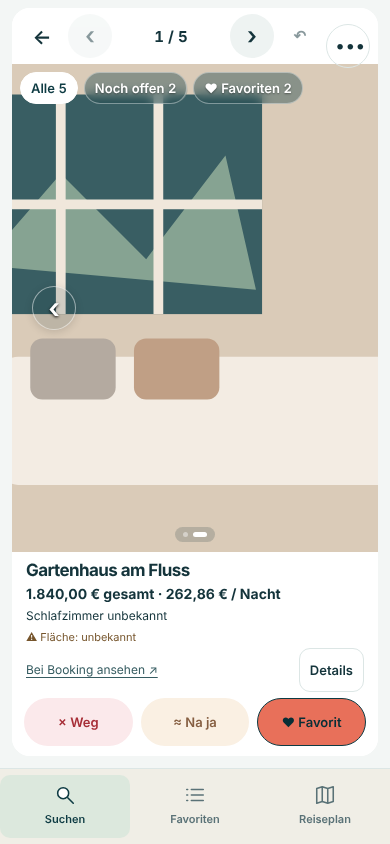
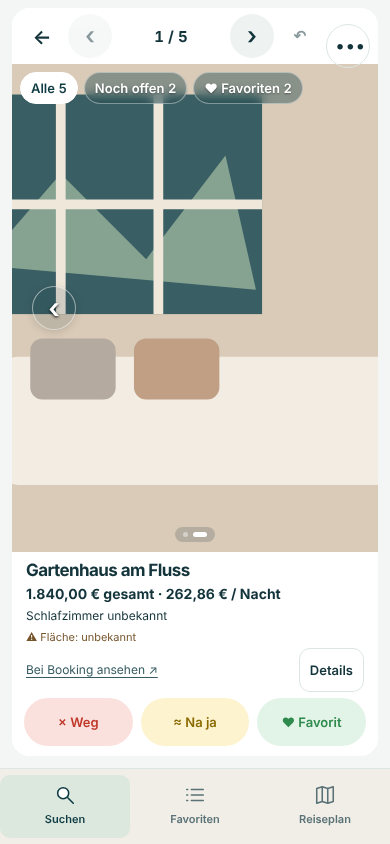
Urteilsfarben Grün/Gelb/Rot und Stempel auf dem Foto (v0.23.1)
- Favorit grün, Na ja gelb, Weg rot – Knöpfe, Markierungen und Listen-Auswahl
- Nach einem Urteil erscheint ein Stempel auf dem Foto, kurz danach geht es weiter
- Bewertete Unterkünfte zeigen den Stempel auch beim späteren Durchblättern

Claude-Session: https://claude.ai/code/session_01DDxrS7RkH2fv5D8K6VfxBU

Changed region(s): [[0.6462, 0.8009, 0.9538, 0.8934], [0.4615, 0.8318, 0.5538, 0.8626]]

diff --git a/stay-review.js b/stay-review.js
@@ -161,11 +161,12 @@ function stayReview({getSnapshot,getGroup=()=>null,getRows=()=>getSnapshot()?.tr
   const box=el('section',{class:'stay-review'}), message=el('p',{class:'review-message',role:'status'});
   const minus=[['preis','Preis'],['zu_klein','Zu klein'],['lage','Lage'],['stil','Stil'],['betten','Betten'],['fotos','Fotos'],['laerm','Lärm'],['ausstattung','Ausstattung'],['sonstiges','Sonstiges']];
   const plus=[['plus_groesse','Größe'],['plus_lage','Lage'],['plus_stil','Stil'],['plus_preis','Preis'],['plus_ausstattung','Ausstattung'],['plus_fotos','Fotos'],['plus_betten','Betten']];
-  let needsRefresh=false, activeGroup=null, restored=false, currentId=null, lastIndex=0, nextAfterVote=null, mode=stayRead('ks_review_mode','alle');
+  let needsRefresh=false, activeGroup=null, restored=false, stampFresh=null, holding=false, holdTimer=null, currentId=null, lastIndex=0, nextAfterVote=null, mode=stayRead('ks_review_mode','alle');
   if(!['alle','offen','favorit'].includes(mode))mode='alle';
   const positionKey=()=>'ks_review_pos:'+(getSnapshot()?.suchauftrag?.id??'etappe');
   function savePosition(){if(currentId)stayWrite(positionKey(),currentId);}
   const judged=t=>['favorit','vielleicht','ausgeschlossen'].includes(t.status);
+  const reduceMotion=()=>{try{return matchMedia('(prefers-reduced-motion: reduce)').matches;}catch{return false;}};
   const rank=(a,b)=>(b.runde||1)-(a.runde||1)||(a.bewertung?.rang??Infinity)-(b.bewertung?.rang??Infinity)||a.treffer_id-b.treffer_id;
   function currentList(keep=true){
     const all=getRows()||[], group=activeGroup;
@@ -174,24 +175,24 @@ function stayReview({getSnapshot,getGroup=()=>null,getRows=()=>getSnapshot()?.tr
     const list=mode==='offen'?base.filter(t=>!judged(t)||(t.status==='aktiv'&&t.urteil_uebernommen?.hinweis)||(keep&&t.treffer_id===currentId)):mode==='favorit'?base.filter(t=>t.status==='favorit'||(keep&&t.treffer_id===currentId)):base;
     return list.sort(rank);
   }
-  function go(delta){message.textContent='';const list=currentList();if(!list.length)return;let i=list.findIndex(t=>t.treffer_id===currentId);if(i<0)i=Math.min(lastIndex,list.length-1);i=Math.max(0,Math.min(list.length-1,i+delta));currentId=list[i].treffer_id;savePosition();draw();box.querySelector('.review-swipe h3')?.focus({preventScroll:true});}
+  function go(delta){if(holding){clearTimeout(holdTimer);holding=false;stampFresh=null;}message.textContent='';const list=currentList();if(!list.length)return;let i=list.findIndex(t=>t.treffer_id===currentId);if(i<0)i=Math.min(lastIndex,list.length-1);i=Math.max(0,Math.min(list.length-1,i+delta));currentId=list[i].treffer_id;savePosition();draw();box.querySelector('.review-swipe h3')?.focus({preventScroll:true});}
   function setMode(next){if(pending||mode===next)return;mode=next;stayWrite('ks_review_mode',mode);const list=currentList(false);if(!list.some(t=>t.treffer_id===currentId)){currentId=list[0]?.treffer_id??null;lastIndex=0;}draw();}
   const reviewed=new Set();
   async function vote(t,urteil,gruende=[],withReasons=true,restoring=false){
-    if(pending||needsRefresh||isBlocked())return;const focusDecision=document.activeElement?.dataset.decision;const previous={status:t.status||'aktiv',gruende:[...(t.urteil_gruende||[])],uebernommen:t.urteil_uebernommen};pending=true;revision++;draw();
+    if(pending||(holding&&!restoring)||needsRefresh||isBlocked())return;const focusDecision=document.activeElement?.dataset.decision;const previous={status:t.status||'aktiv',gruende:[...(t.urteil_gruende||[])],uebernommen:t.urteil_uebernommen};pending=true;revision++;draw();
     try {const r=await call('unterkunft_durchsehen_urteil',{treffer_id:t.treffer_id,urteil,gruende});if(!live())return;
       if(r.ok!==true || r.treffer_id!==t.treffer_id || r.urteil!==urteil || r.status!==({favorit:'favorit',vielleicht:'vielleicht',weg:'ausgeschlossen',offen:'aktiv'}[urteil]))throw Error('Urteil nicht eindeutig bestätigt.');
       t.status={favorit:'favorit',vielleicht:'vielleicht',weg:'ausgeschlossen',offen:'aktiv'}[urteil];t.urteil_gruende=gruende;
       if(restoring){reviewed.delete(t.treffer_id);t.urteil_uebernommen=previousRestore;last=null;reasonFor=null;}else if(urteil==='offen'){t.urteil_uebernommen=null;last=null;reasonFor=null;}else {if(withReasons){last={t,previous};if(activeGroup)reviewed.add(t.treffer_id);}reasonFor=withReasons?{t,urteil,gruende}:null;}
       if(reasonsDialog){reasonsDialog.close();reasonsDialog.remove();reasonsDialog=null;}
       awaitingReturn=null;message.textContent=restoring||urteil==='offen'?'Entscheidung zurückgenommen.':({favorit:'♥ Als Favorit gemerkt.',vielleicht:'≈ Als Na ja gemerkt.',weg:'× Aussortiert.'})[urteil];
-      if(!restoring&&urteil!=='offen'&&nextAfterVote){currentId=nextAfterVote;savePosition();}nextAfterVote=null;
+      if(!restoring&&urteil!=='offen'){stampFresh=t.treffer_id;const target=nextAfterVote;if(target){holding=true;clearTimeout(holdTimer);holdTimer=setTimeout(()=>{holding=false;stampFresh=null;if(!live())return;currentId=target;savePosition();draw();box.querySelector('.review-swipe h3')?.focus({preventScroll:true});},reduceMotion()?250:700);}}nextAfterVote=null;
     }catch(e){needsRefresh=true;if(reasonsDialog){reasonsDialog.close();reasonsDialog.remove();reasonsDialog=null;}message.textContent='Speichern nicht bestätigt: '+e.message+' Bitte aktualisieren, bevor du erneut entscheidest.';}
     finally{pending=false;revision++;if(live()){changed(t);draw();if(focusDecision)box.querySelector('.review-swipe h3')?.focus({preventScroll:true});}}
   }
   let previousRestore=null;
   function undoVote(){if(!last)return;const {t,previous}=last;currentId=t.treffer_id;savePosition();previousRestore=previous.uebernommen;void vote(t,({aktiv:'offen',favorit:'favorit',vielleicht:'vielleicht',ausgeschlossen:'weg'})[previous.status]||'offen',previous.gruende,false,true);}
-  function buttons(t){const current={favorit:'favorit',vielleicht:'vielleicht',ausgeschlossen:'weg'}[t.status]||null;return el('div',{class:'actions review-actions'},[['weg','Weg'],['vielleicht','Na ja'],['favorit','Favorit']].map(([key,label])=>el('button',{type:'button',class:'decision-'+key,'aria-label':current===key?label+' zurücknehmen':label,'aria-pressed':String(current===key),'data-decision':key,disabled:pending||needsRefresh||isBlocked(),onclick:()=>{const list=currentList();const i=list.findIndex(x=>x.treffer_id===t.treffer_id);nextAfterVote=current===key?null:(list[i+1]?.treffer_id??(mode==='offen'&&!activeGroup?list.find(x=>x.treffer_id!==t.treffer_id)?.treffer_id??-1:null));void vote(t,current===key?'offen':key);}},el('span',{'aria-hidden':'true'},({weg:'×',vielleicht:'≈',favorit:'♥'})[key]+' '),label)));}
+  function buttons(t){const current={favorit:'favorit',vielleicht:'vielleicht',ausgeschlossen:'weg'}[t.status]||null;return el('div',{class:'actions review-actions'},[['weg','Weg'],['vielleicht','Na ja'],['favorit','Favorit']].map(([key,label])=>el('button',{type:'button',class:'decision-'+key,'aria-label':current===key?label+' zurücknehmen':label,'aria-pressed':String(current===key),'data-decision':key,disabled:pending||holding||needsRefresh||isBlocked(),onclick:()=>{const list=currentList();const i=list.findIndex(x=>x.treffer_id===t.treffer_id);nextAfterVote=current===key?null:(list[i+1]?.treffer_id??(mode==='offen'&&!activeGroup?list.find(x=>x.treffer_id!==t.treffer_id)?.treffer_id??-1:null));void vote(t,current===key?'offen':key);}},el('span',{'aria-hidden':'true'},({weg:'×',vielleicht:'≈',favorit:'♥'})[key]+' '),label)));}
   function openReasons(){
     if(!reasonFor||pending||needsRefresh||isBlocked())return;
     const r=reasonFor, dialog=el('dialog',{class:'stay-candidate review-reasons','aria-label':'Gründe ergänzen'});
@@ -238,7 +239,7 @@ function stayReview({getSnapshot,getGroup=()=>null,getRows=()=>getSnapshot()?.tr
     const price=t.currentOfferUnavailable?el('span',{},'Preis nicht bestätigt'):el('span',{},stayField(t,'preis',snapshot.suchauftrag),' gesamt · ',stayField(t,'nacht',snapshot.suchauftrag),' / Nacht');
     const bedrooms=stayFieldValue(t,'schlafzimmer',snapshot.suchauftrag), m2=stayFieldValue(t,'m2',snapshot.suchauftrag), note=stayFieldValue(t,'gaestenote',snapshot.suchauftrag);
     const facts=[bedrooms===null?null:bedrooms+' Schlafzimmer',m2===null?null:m2+' m²',sucheZahl(note)===null?null:'★ '+Number(note).toLocaleString('de-DE',{maximumFractionDigits:1})].filter(Boolean);
-    const verdict={favorit:'♥ Favorit',vielleicht:'≈ Na ja',ausgeschlossen:'× Aussortiert'}[t.status];
+    const verdict={favorit:'♥ Favorit',vielleicht:'≈ Na ja',ausgeschlossen:'× Weg'}[t.status];
     const swipe=el('div',{class:'review-swipe'},el('div',{class:'review-title'},refreshIsNew(t,snapshot.suchauftrag.id)?el('span',{class:'pill'},'NEU'):null,verdict?el('span',{class:'review-verdict verdict-'+t.status},verdict):null,el('h3',{tabindex:-1},t.name)),el('p',{class:'review-price'},price),el('p',{class:'review-bedroom'},facts.length?facts.join(' · '):'Schlafzimmer unbekannt'));
     let point=null, swiped=false;
     swipe.addEventListener('pointerdown',e=>{if(point){point=null;return;}if(e.isPrimary===false || e.button!==0 || e.target.closest('button,a') || document.querySelector('dialog[open]'))return;point={id:e.pointerId,x:e.clientX,y:e.clientY};try{swipe.setPointerCapture?.(e.pointerId);}catch{/* Synthetic events may lack an active pointer. */}});
@@ -251,11 +252,11 @@ function stayReview({getSnapshot,getGroup=()=>null,getRows=()=>getSnapshot()?.tr
     content.append(swipe,el('div',{class:'review-links'},url?el('a',{href:url,target:'_blank',rel:'noopener noreferrer',onclick:()=>{awaitingReturn=t.treffer_id;}},provider.label):null,
       el('button',{type:'button',onclick:event=>{const trigger=event.currentTarget,dialog=sucheKandidat(t,snapshot.suchauftrag.status==='fertig',snapshot.suchauftrag.id);dialog.append(el('p',{class:'review-score'},`Passung ${t.bewertung?.score??'–'}/100`),stayReviewInfo(t,snapshot.suchauftrag),el('section',{'aria-label':'Offene Angaben'},warnings.map(w=>el('p',{},w))));scope.append(dialog);dialog.addEventListener('close',()=>{dialog.remove();if(trigger.isConnected)trigger.focus({preventScroll:true});});dialog.showModal();}},'Details')));
     if(awaitingReturn===t.treffer_id)content.append(el('p',{role:'status'},'Und? Wie gefällt dir die Unterkunft?'));
-    gallery.querySelector(':scope > .review-modes')?.remove();if(modes)gallery.append(modes);article.append(header,content,buttons(t));stayCardPhoto(article,gallery);box.append(article);
+    gallery.querySelector(':scope > .review-modes')?.remove();if(modes)gallery.append(modes);gallery.querySelector(':scope > .review-stamp')?.remove();if(judged(t))gallery.append(el('span',{class:'review-stamp stamp-'+t.status+(stampFresh===t.treffer_id?' is-fresh':''),'aria-hidden':'true'},{favorit:'♥ Favorit',vielleicht:'≈ Na ja',ausgeschlossen:'× Weg'}[t.status]));article.append(header,content,buttons(t));stayCardPhoto(article,gallery);box.append(article);
     article.addEventListener('keydown',e=>{if(e.target.closest('input,select,textarea,.stay-gallery'))return;if(e.key==='ArrowRight'||e.key==='ArrowLeft'){e.preventDefault();go(e.key==='ArrowRight'?1:-1);}});
   }
   const returned=()=>{if(!document.hidden && awaitingReturn && live())draw();};document.addEventListener('visibilitychange',returned);
-  return {node:box,draw,get currentId(){return currentId;},show(id){currentId=id;savePosition();},get revision(){return revision;},get pending(){return pending;},get blocked(){return needsRefresh;},refreshed(){if(!pending){needsRefresh=false;last=null;reasonFor=null;}},dispose(){reasonsDialog?.close();reasonsDialog?.remove();document.removeEventListener('visibilitychange',returned);}};
+  return {node:box,draw,get currentId(){return currentId;},show(id){currentId=id;savePosition();},get revision(){return revision;},get pending(){return pending;},get blocked(){return needsRefresh;},refreshed(){if(!pending){needsRefresh=false;last=null;reasonFor=null;}},dispose(){clearTimeout(holdTimer);reasonsDialog?.close();reasonsDialog?.remove();document.removeEventListener('visibilitychange',returned);}};
 }
 function stayConfigureTable(wrapper,items,sort,onSort,trip,select) {
   const table=wrapper.querySelector('table'), head=table.tHead.rows[0], fields=stayFields();

diff --git a/style.css b/style.css
@@ -1131,3 +1131,23 @@ body:has(.tinder-mode) main.view{padding:8px 10px;}
 .suche:not(.tinder-mode)>.result-jumps{display:flex;flex-wrap:wrap;gap:4px 14px;margin:0 4px 10px}
 .suche:not(.tinder-mode)>.result-jumps button{min-height:32px;padding:0;border:0;background:none;color:#365c61;text-decoration:underline;font-size:13px;font-weight:600}
 .stay-run-summary{padding-bottom:10px}
+
+/* Urteilsfarben (Sebastian 18.10.): Grün = Favorit, Gelb = Na ja, Rot = Weg – überall gleich. */
+:root{--fav:#2f8a4e;--fav-bg:#e2f3e7;--maybe:#8a6a00;--maybe-solid:#d9a514;--maybe-bg:#fdf3cf;--out:#c0392b;--out-bg:#fbe1dd}
+.review-actions .decision-favorit,.photo-first .review-actions .decision-favorit{background:var(--fav-bg);color:var(--fav);border-color:transparent}
+.review-actions .decision-vielleicht,.photo-first .review-actions .decision-vielleicht{background:var(--maybe-bg);color:var(--maybe);border-color:transparent}
+.review-actions .decision-weg,.photo-first .review-actions .decision-weg{background:var(--out-bg);color:var(--out);border-color:transparent}
+.review-actions button.decision-favorit:not(:disabled):hover{background:var(--fav-bg);color:var(--fav);filter:brightness(.96)}
+.photo-first .review-actions button[aria-pressed="true"]{outline:0;color:#fff;font-weight:800}
+.photo-first .review-actions .decision-favorit[aria-pressed="true"]{background:var(--fav)}
+.photo-first .review-actions .decision-vielleicht[aria-pressed="true"]{background:var(--maybe-solid);color:#2b2100}
+.photo-first .review-actions .decision-weg[aria-pressed="true"]{background:var(--out)}
+.verdict-favorit{background:var(--fav-bg);color:var(--fav)}.verdict-vielleicht{background:var(--maybe-bg);color:var(--maybe)}.verdict-ausgeschlossen{background:var(--out-bg);color:var(--out)}
+.stay-selection button.sel-fav[aria-pressed="true"]{background:var(--fav);color:#fff;border-color:var(--fav)}
+.stay-selection button.sel-out[aria-pressed="true"]{background:var(--out);color:#fff;border-color:var(--out)}
+/* Stempel auf dem Foto, wenn bewertet */
+.photo-first .stay-gallery>.review-stamp{position:absolute;right:14px;bottom:30px;z-index:4;padding:6px 14px;border:3px solid currentColor;border-radius:10px;font-weight:900;font-size:20px;letter-spacing:.06em;text-transform:uppercase;transform:rotate(-10deg);background:#ffffffcc;pointer-events:none;box-shadow:0 2px 10px #0003}
+.review-stamp.stamp-favorit{color:var(--fav)}.review-stamp.stamp-vielleicht{color:var(--maybe)}.review-stamp.stamp-ausgeschlossen{color:var(--out)}
+.review-stamp.is-fresh{animation:stamp-in .38s cubic-bezier(.2,.9,.3,1.3) both}
+@keyframes stamp-in{from{transform:rotate(-10deg) scale(2.2);opacity:0}to{transform:rotate(-10deg) scale(1);opacity:1}}
+@media (prefers-reduced-motion: reduce){.review-stamp.is-fresh{animation:none}}

diff --git a/index.html b/index.html
@@ -14,22 +14,22 @@
 <link rel="icon" href="icon.svg" type="image/svg+xml">
 <link rel="apple-touch-icon" href="icon-180.png">
 <link rel="stylesheet" href="vendor/leaflet-1.9.4/leaflet.css">
-<link rel="stylesheet" href="style.css?v=0.23.0">
+<link rel="stylesheet" href="style.css?v=0.23.1">
 <script src="https://cdnjs.cloudflare.com/ajax/libs/marked/15.0.7/marked.min.js" defer></script>
 <script src="vendor/leaflet-1.9.4/leaflet.js" defer></script>
-<script src="stay-tools.js?v=0.23.0" defer></script>
-<script src="stay-research.js?v=0.23.0" defer></script>
-<script src="stay-form.js?v=0.23.0" defer></script>
-<script src="stay-details.js?v=0.23.0" defer></script>
-<script src="stay-districts.js?v=0.23.0" defer></script>
-<script src="stay-review.js?v=0.23.0" defer></script>
-<script src="stay-photos.js?v=0.23.0" defer></script>
-<script src="stay-trips.js?v=0.23.0" defer></script>
-<script src="stay-compare.js?v=0.23.0" defer></script>
-<script src="stay-refresh.js?v=0.23.0" defer></script>
-<script src="stay-workplace.js?v=0.23.0" defer></script>
-<script src="stay-notifications.js?v=0.23.0" defer></script>
-<script src="app.js?v=0.23.0" defer></script>
+<script src="stay-tools.js?v=0.23.1" defer></script>
+<script src="stay-research.js?v=0.23.1" defer></script>
+<script src="stay-form.js?v=0.23.1" defer></script>
+<script src="stay-details.js?v=0.23.1" defer></script>
+<script src="stay-districts.js?v=0.23.1" defer></script>
+<script src="stay-review.js?v=0.23.1" defer></script>
+<script src="stay-photos.js?v=0.23.1" defer></script>
+<script src="stay-trips.js?v=0.23.1" defer></script>
+<script src="stay-compare.js?v=0.23.1" defer></script>
+<script src="stay-refresh.js?v=0.23.1" defer></script>
+<script src="stay-workplace.js?v=0.23.1" defer></script>
+<script src="stay-notifications.js?v=0.23.1" defer></script>
+<script src="app.js?v=0.23.1" defer></script>
 </head>
 <body>
 

diff --git a/sw.js b/sw.js
@@ -1,7 +1,7 @@
 // Service Worker: hält nur die App-Hülle vor (Dateien dieser Seite). Daten kommen immer live von app-api.
 const CACHE_PREFIX = 'ki-system:' + self.registration.scope + ':';
-const CACHE = CACHE_PREFIX + 'v36';
-const HUELLE = ['./', './index.html', './stay-compare.js?v=0.23.0', './stay-refresh.js?v=0.23.0', './stay-workplace.js?v=0.23.0', './stay-notifications.js?v=0.23.0', './stay-photos.js?v=0.23.0', './stay-trips.js?v=0.23.0', './stay-review.js?v=0.23.0', './app.js?v=0.23.0', './stay-tools.js?v=0.23.0', './stay-research.js?v=0.23.0', './stay-form.js?v=0.23.0', './stay-details.js?v=0.23.0', './stay-districts.js?v=0.23.0', './vendor/leaflet-1.9.4/leaflet.js', './vendor/leaflet-1.9.4/leaflet.css', './style.css?v=0.23.0', './manifest.webmanifest', './icon.svg', './icon-180.png', './icon-512.png'];
+const CACHE = CACHE_PREFIX + 'v37';
+const HUELLE = ['./', './index.html', './stay-compare.js?v=0.23.1', './stay-refresh.js?v=0.23.1', './stay-workplace.js?v=0.23.1', './stay-notifications.js?v=0.23.1', './stay-photos.js?v=0.23.1', './stay-trips.js?v=0.23.1', './stay-review.js?v=0.23.1', './app.js?v=0.23.1', './stay-tools.js?v=0.23.1', './stay-research.js?v=0.23.1', './stay-form.js?v=0.23.1', './stay-details.js?v=0.23.1', './stay-districts.js?v=0.23.1', './vendor/leaflet-1.9.4/leaflet.js', './vendor/leaflet-1.9.4/leaflet.css', './style.css?v=0.23.1', './manifest.webmanifest', './icon.svg', './icon-180.png', './icon-512.png'];
 const HUELLE_URLS = new Set(HUELLE.map(path => new URL(path, self.registration.scope).href));
 
 self.addEventListener('install', (e) => {

diff --git a/stay-tools.js b/stay-tools.js
@@ -16,8 +16,8 @@ function sucheAuswahl(t, states, call, live, changed) {
   if (!states.has(t.treffer_id)) states.set(t.treffer_id, { saved: t.status || 'aktiv', pending: false, revision: 0, message: '', undo: null });
   const state = states.get(t.treffer_id), box = el('div', { class: 'stay-selection', 'data-selection': t.treffer_id });
   const status = el('p', { class: 'small', role: 'status' });
-  const favorite = el('button', { type: 'button', onclick: () => save(state.saved === 'favorit' ? 'aktiv' : 'favorit') });
-  const exclude = el('button', { type: 'button', onclick: () => save(state.saved === 'ausgeschlossen' ? 'aktiv' : 'ausgeschlossen') });
+  const favorite = el('button', { type: 'button', class: 'sel-fav', onclick: () => save(state.saved === 'favorit' ? 'aktiv' : 'favorit') });
+  const exclude = el('button', { type: 'button', class: 'sel-out', onclick: () => save(state.saved === 'ausgeschlossen' ? 'aktiv' : 'ausgeschlossen') });
   const undo = el('button', { type: 'button', onclick: () => save(state.undo, true) }, 'Rückgängig');
   async function save(next, isUndo = false) {
     if (state.pending || state.refreshRequired || !['aktiv', 'favorit', 'vielleicht', 'ausgeschlossen'].includes(next)) return;

diff --git a/app.js b/app.js
@@ -3,7 +3,7 @@
    Schreibende Aktionen laufen nur nach einem Klick von Sebastian. */
 'use strict';
 
-const APP_VERSION = '0.23.0';
+const APP_VERSION = '0.23.1';
 const API = 'https://sdgzwxiqcijxfpcjpydw.supabase.co/functions/v1/app-api';
 const TOKEN_KEY = 'ks_token';
 
